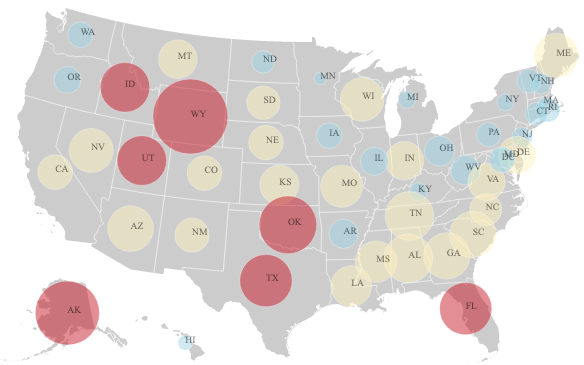
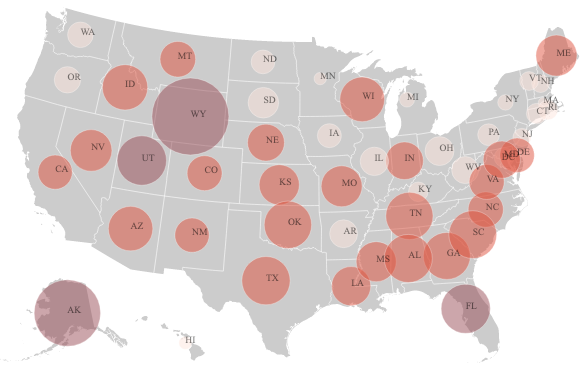
added new colors

diff --git a/top20counties-20220509/graphic.js b/top20counties-20220509/graphic.js
@@ -154,7 +154,7 @@ METHOD: load in and process data
         var rscale = d3
           .scaleLinear()
           .domain([300, d3.max(listOfValues)])
-          .range([1, radiusRange]);
+          .range([3, radiusRange]);
 
         // Set X axis based on new scale. If chart is set to "per capita" use numbers with one decimal point
         let xAxis;
@@ -227,19 +227,19 @@ METHOD: load in and process data
           .attr("fill", function (d) {
             console.log(d.State)
             if (d.State == ("New York")) {
-              return "#2FACD3";
+              return "#FEE5DB";
             }
             else if (d.State == ("California")){
-              return "#2FACD3";
+              return "#FEE5DB";
             }
             else if (d.State == ("Texas")){
-              return "#c70000";
+              return "#9c4f57";
             }
             else {
-              return "#979797";
+              return "#e2523b";
             }
           })
-          .attr("fill-opacity", 0.5)
+          .attr("fill-opacity", 0.75)
           .attr("stroke", "#dfdfdf")
           .attr("stroke-width", 1)
           .merge(countriesCircles)

diff --git a/debtbystate-20220509/graphic.js b/debtbystate-20220509/graphic.js
@@ -85,9 +85,7 @@ METHOD: fetch the data and draw the chart
 ------------------------------
 */
   function update(svg, us, radius) {
-    d3.csv(
-      "https://raw.githubusercontent.com/juweek/datasets/main/medicalState.csv"
-    ).then(function (data) {
+    d3.csv("./medicalState.csv").then(function (data) {
       data.forEach(function (d) {
         // extract only c_fips and per_capita (or total)
         d.avg_medical_debt = d.avg_medical_debt + ':' + d.pc_collections;
@@ -129,11 +127,11 @@ METHOD: fetch the data and draw the chart
         .attr("fill", (d) => {
           let medicalDebt = d.value.split(':');
           if (parseInt(medicalDebt[0]) > 1000) {
-            return "#CC1A29";
+            return "#9c4f57";
           } else if (parseInt(medicalDebt[0]) > 700) {
-            return "#FDF2BD";
+            return "#e2523b";
           } else {
-            return "#9DD6E7";
+            return "#FEE5DB";
           }
         })
         .attr("data-coordinates", (d) => `${path.centroid(d)}`);

diff --git a/top20counties-20220509/index.html b/top20counties-20220509/index.html
@@ -64,15 +64,15 @@ div.tooltip {
 <div style="margin-bottom: 10px;">The share of people with medical debt is highest in Texas counties (to the right) and lowest in New York and California (to the left). The size of the circles denotes the average amount of debt held by residents in each county.</div>
 <section id="keyContainer">
   <div class="key_block">
-    <div class="key_break" style="background-color: #2B90AF;"></div>
+    <div class="key_break" style="background-color: #FEE5DB;"></div>
     <span class=""> NY/CA counties</span>
   </div>
   <div class="key_block">
-    <div class="key_break" style="background-color: #9d9d9d;"></div>
+    <div class="key_break" style="background-color: #F76C56;"></div>
     <span class="">All other states</span>
   </div>
   <div class="key_block">
-    <div class="key_break" style="background-color: #CC1A29;"></div>
+    <div class="key_break" style="background-color: #CA767F;"></div>
     <span class=""> TX counties</span>
   </div>
 </section>

diff --git a/debtbystate-20220509/index.html b/debtbystate-20220509/index.html
@@ -62,15 +62,15 @@
     
   <section id="keyContainer">
     <div class="key_block">
-      <div class="key_break" style="background-color: #9DD6E7;"></div>
+      <div class="key_break" style="background-color: #FEE5DB;"></div>
       <span class="">Under $700</span>
     </div>
     <div class="key_block">
-      <div class="key_break" style="background-color: #E6E0C4;"></div>
+      <div class="key_break" style="background-color: #F76C56;"></div>
       <span class="">$700 - $1,000</span>
     </div>
     <div class="key_block">
-      <div class="key_break" style="background-color: #CC1A29;"></div>
+      <div class="key_break" style="background-color: #CA767F;"></div>
       <span class="">Over $1,000</span>
     </div>
   </section>
